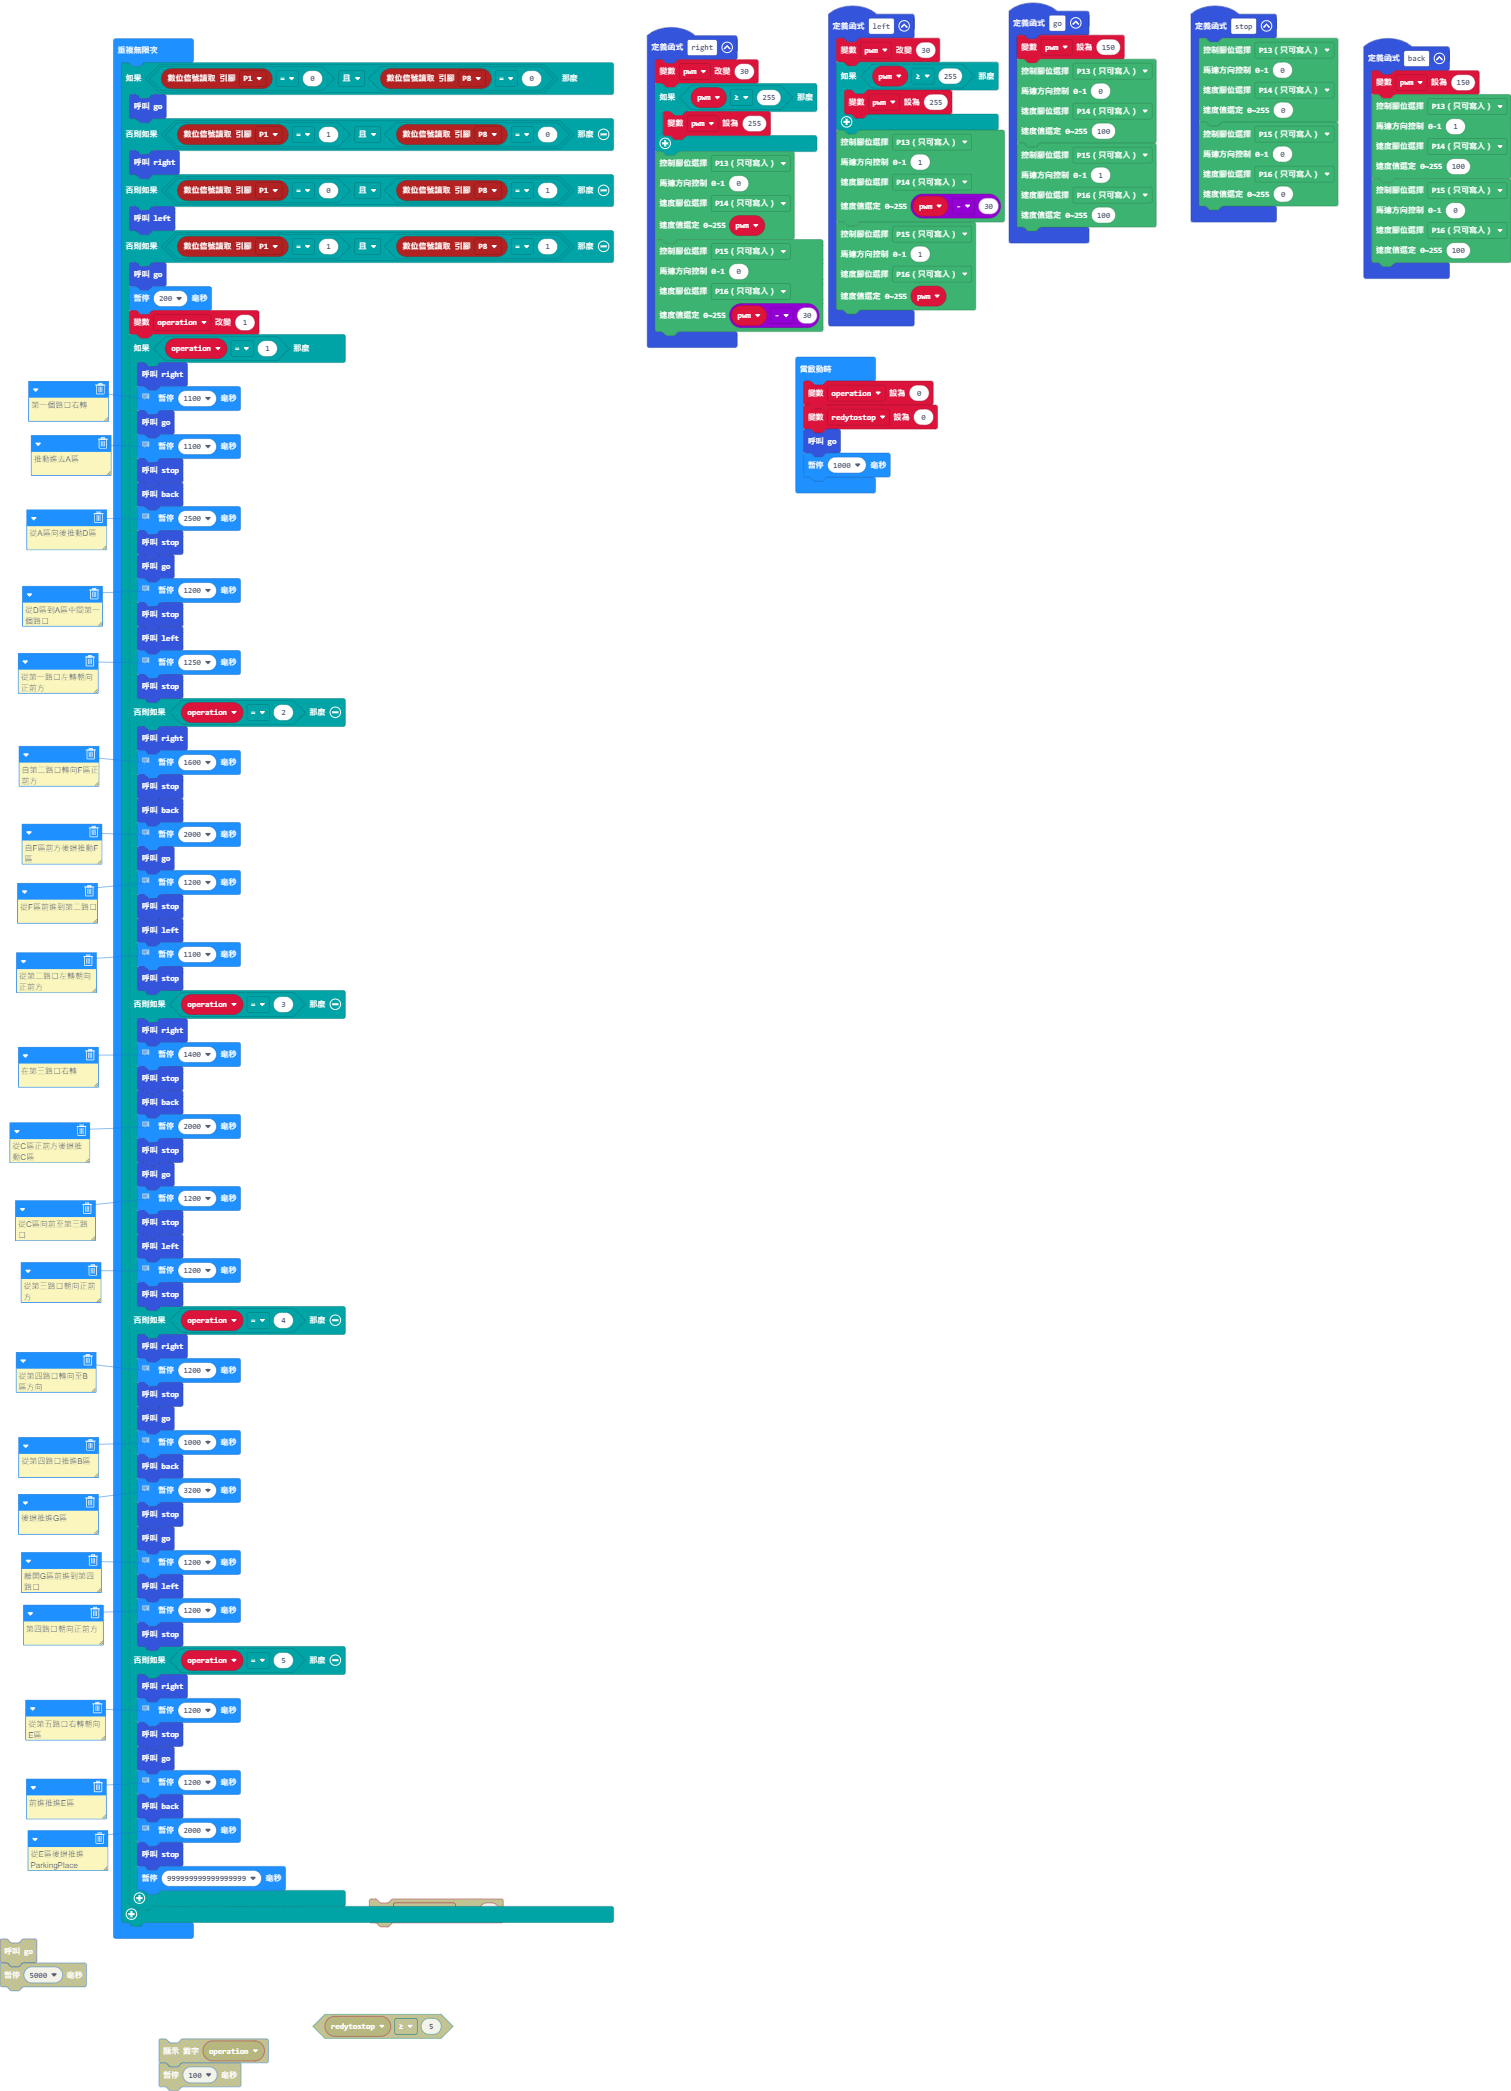
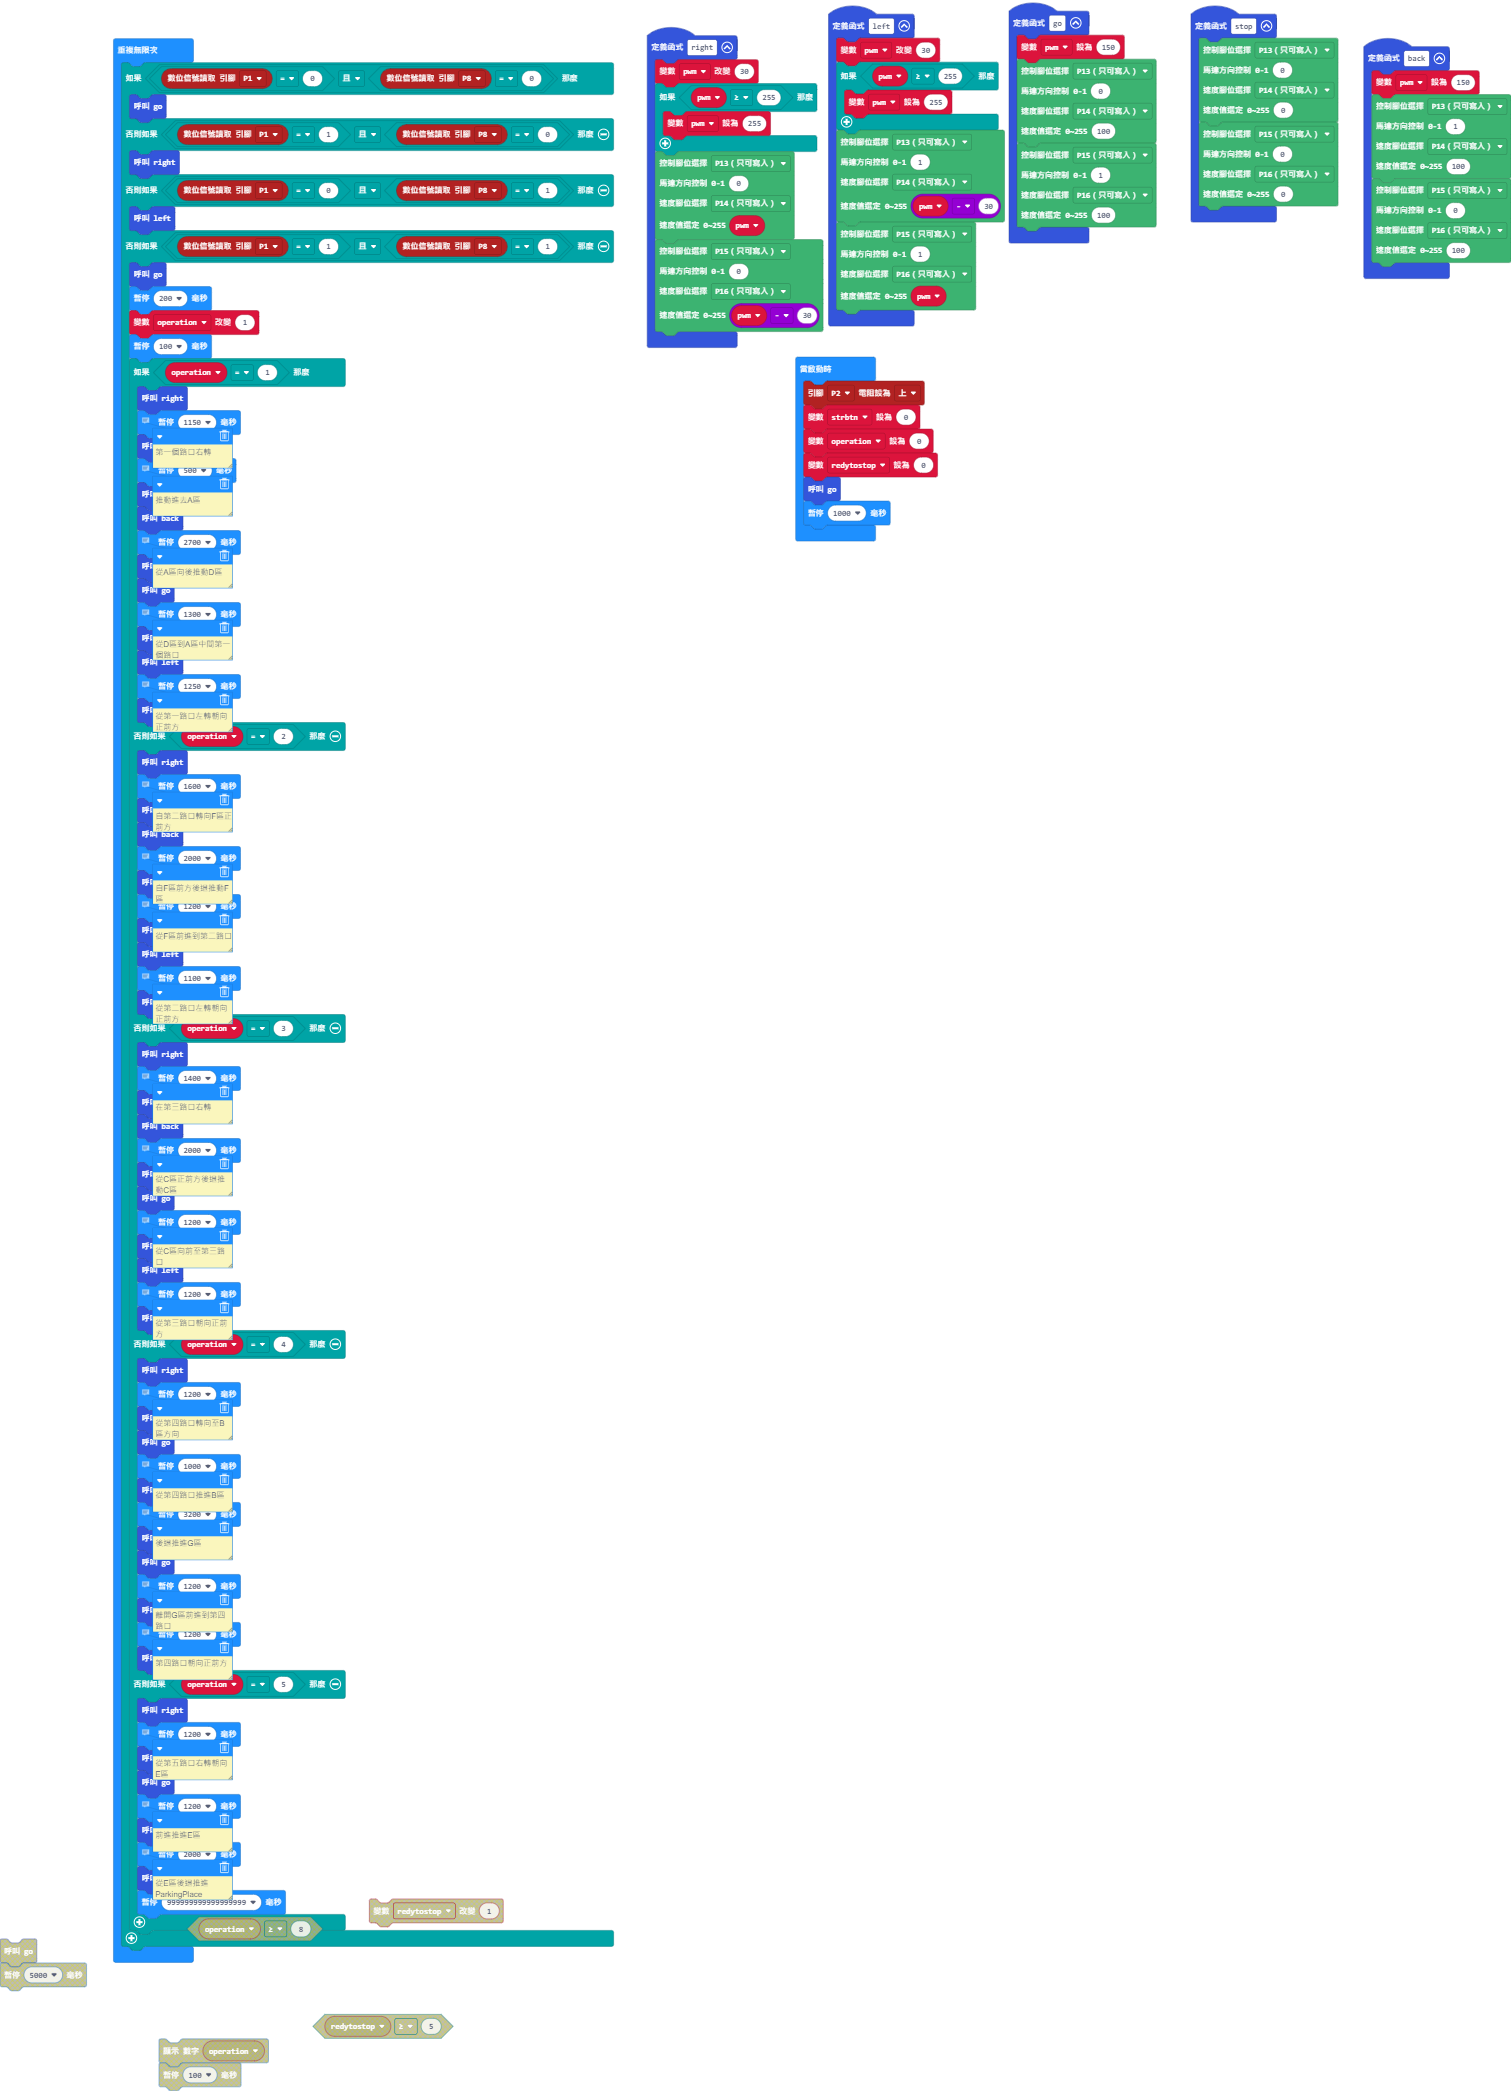
更新 main.blocks, main.ts

Changed region(s): [[0.0, 0.1554, 0.4044, 0.9637], [0.5288, 0.1554, 0.6221, 0.2798]]

diff --git a/main.ts b/main.ts
@@ -79,6 +79,8 @@ function go () {
     )
 }
 let pwm = 0
+pins.setPull(DigitalPin.P2, PinPullMode.PullUp)
+let strbtn = 0
 let operation = 0
 let redytostop = 0
 go()
@@ -94,21 +96,22 @@ basic.forever(function () {
         go()
         basic.pause(200)
         operation += 1
+        basic.pause(100)
         if (operation == 1) {
             right()
             // 第一個路口右轉
-            basic.pause(1100)
+            basic.pause(1150)
             go()
             // 推動進去A區
-            basic.pause(1100)
+            basic.pause(500)
             stop()
             back()
             // 從A區向後推動D區
-            basic.pause(2500)
+            basic.pause(2700)
             stop()
             go()
             // 從D區到A區中間第一個路口
-            basic.pause(1200)
+            basic.pause(1300)
             stop()
             left()
             // 從第一路口左轉朝向正前方
